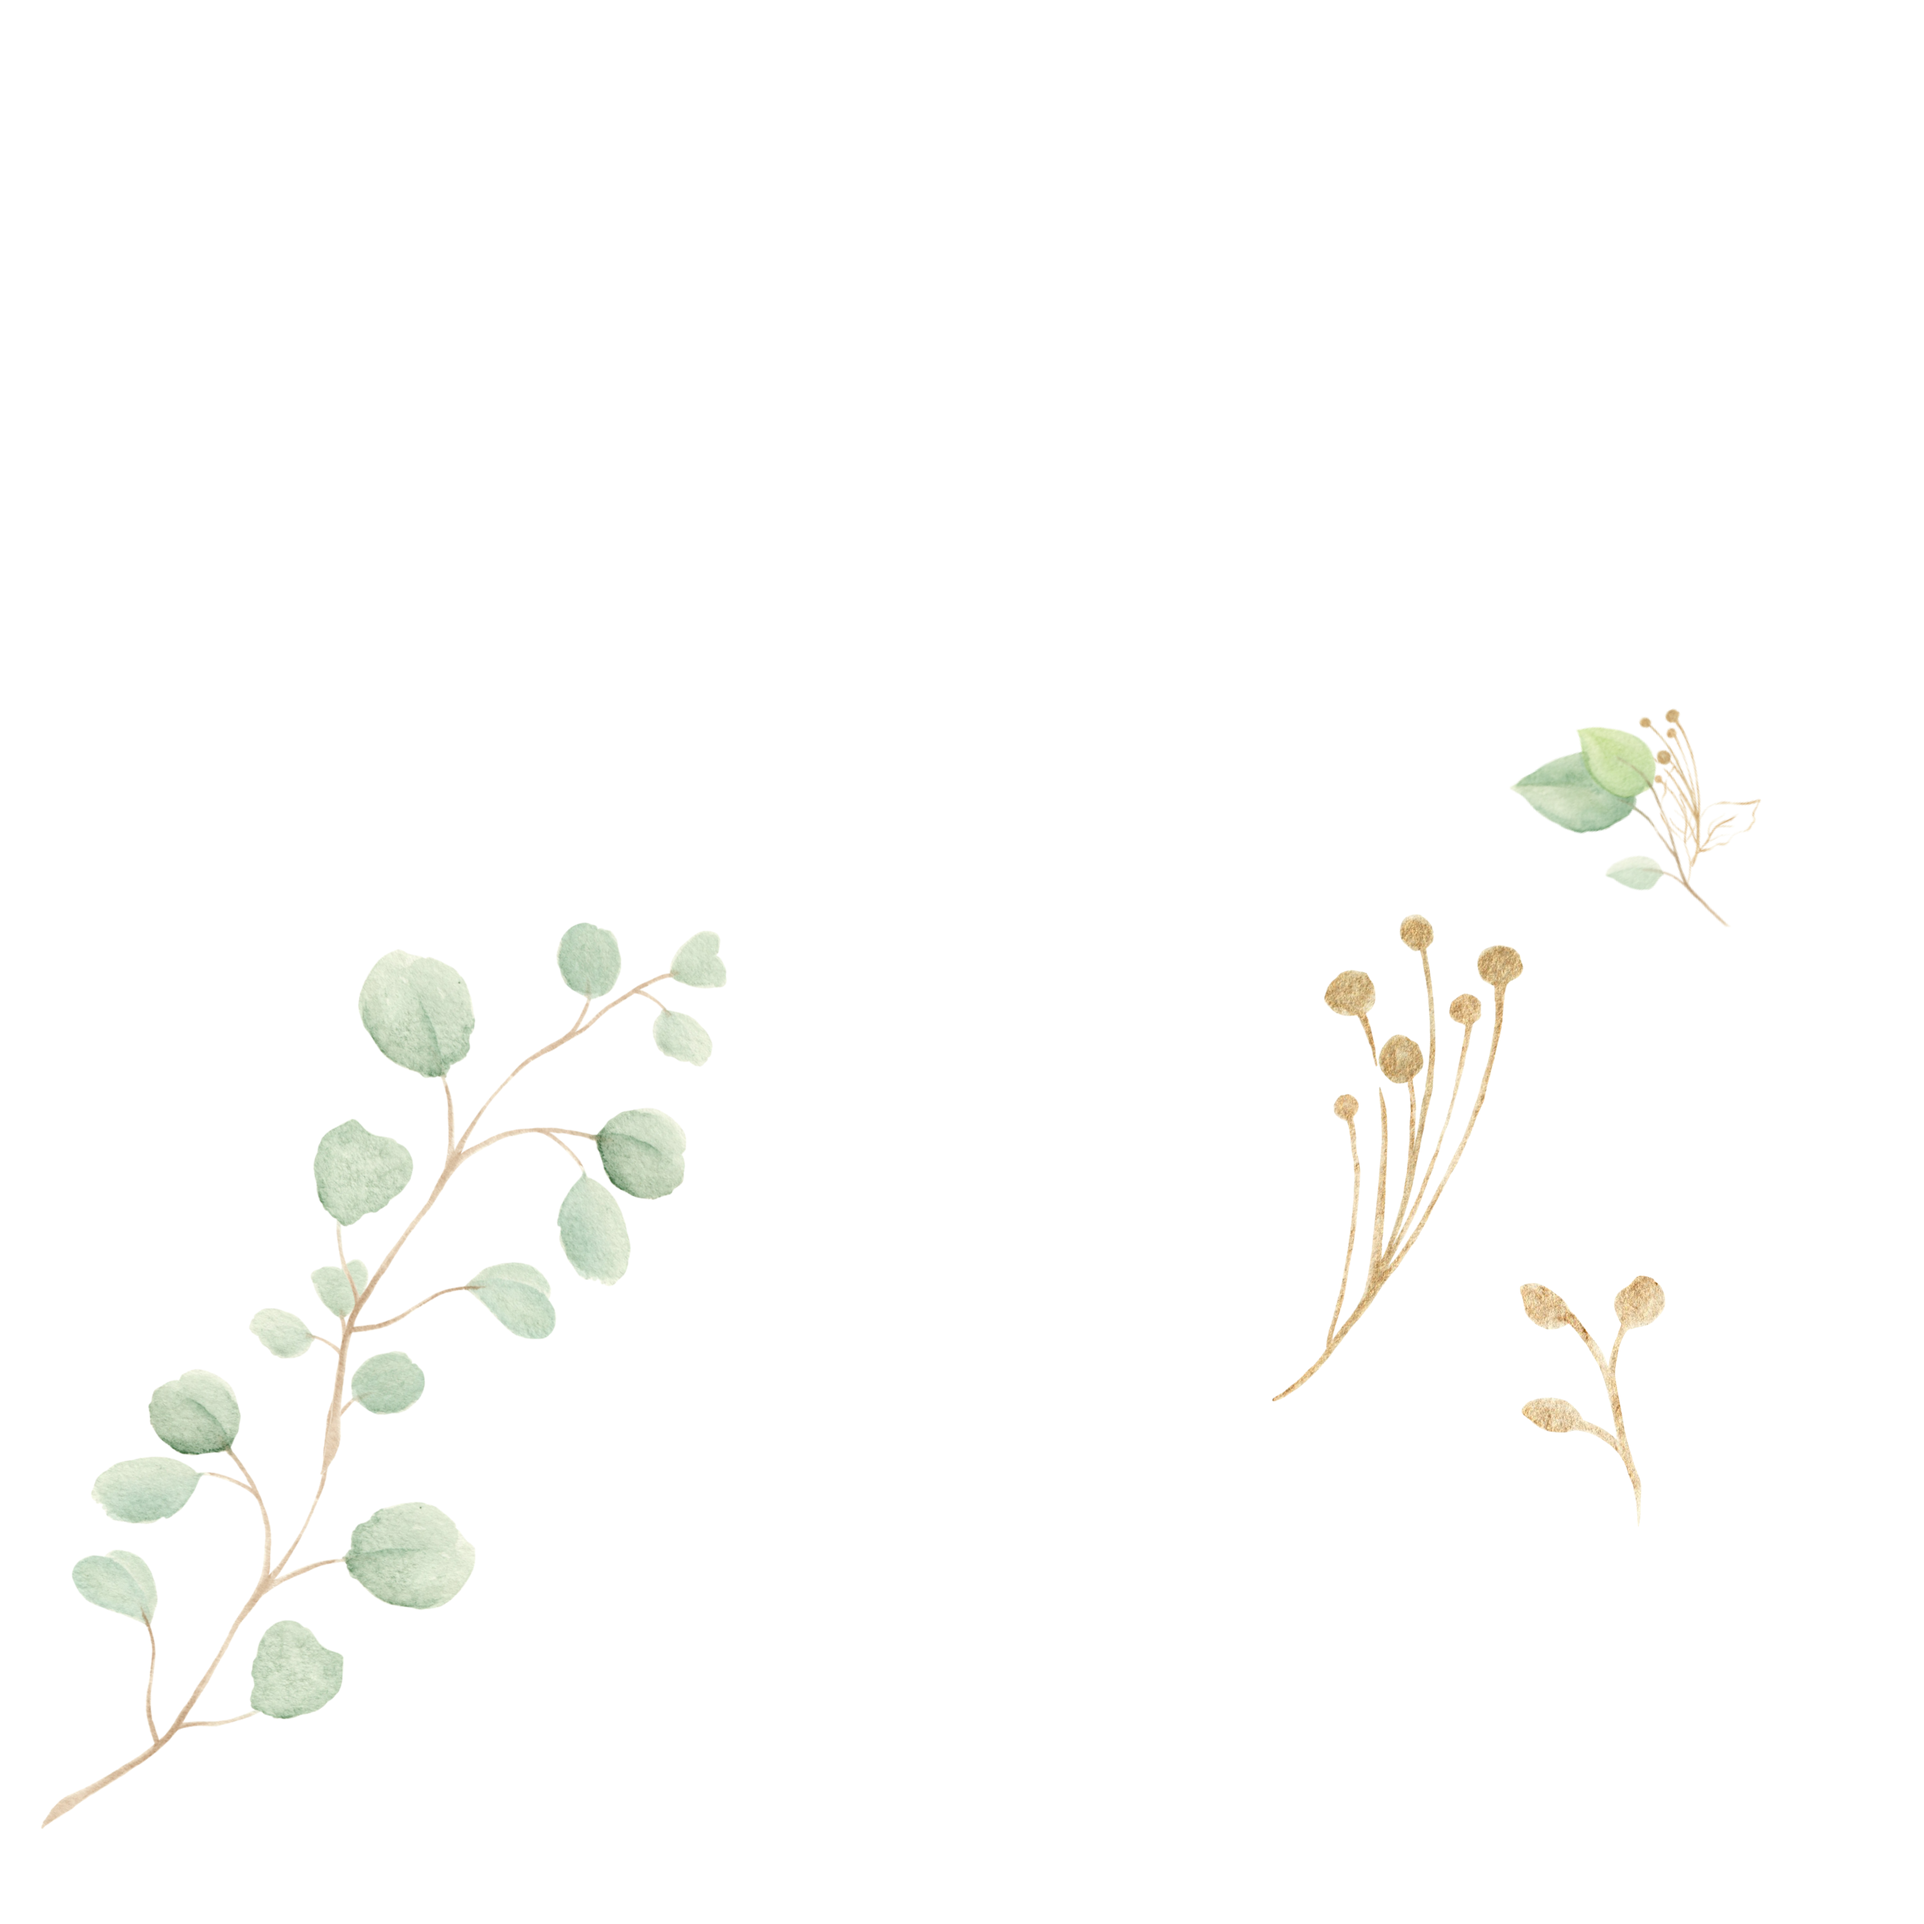
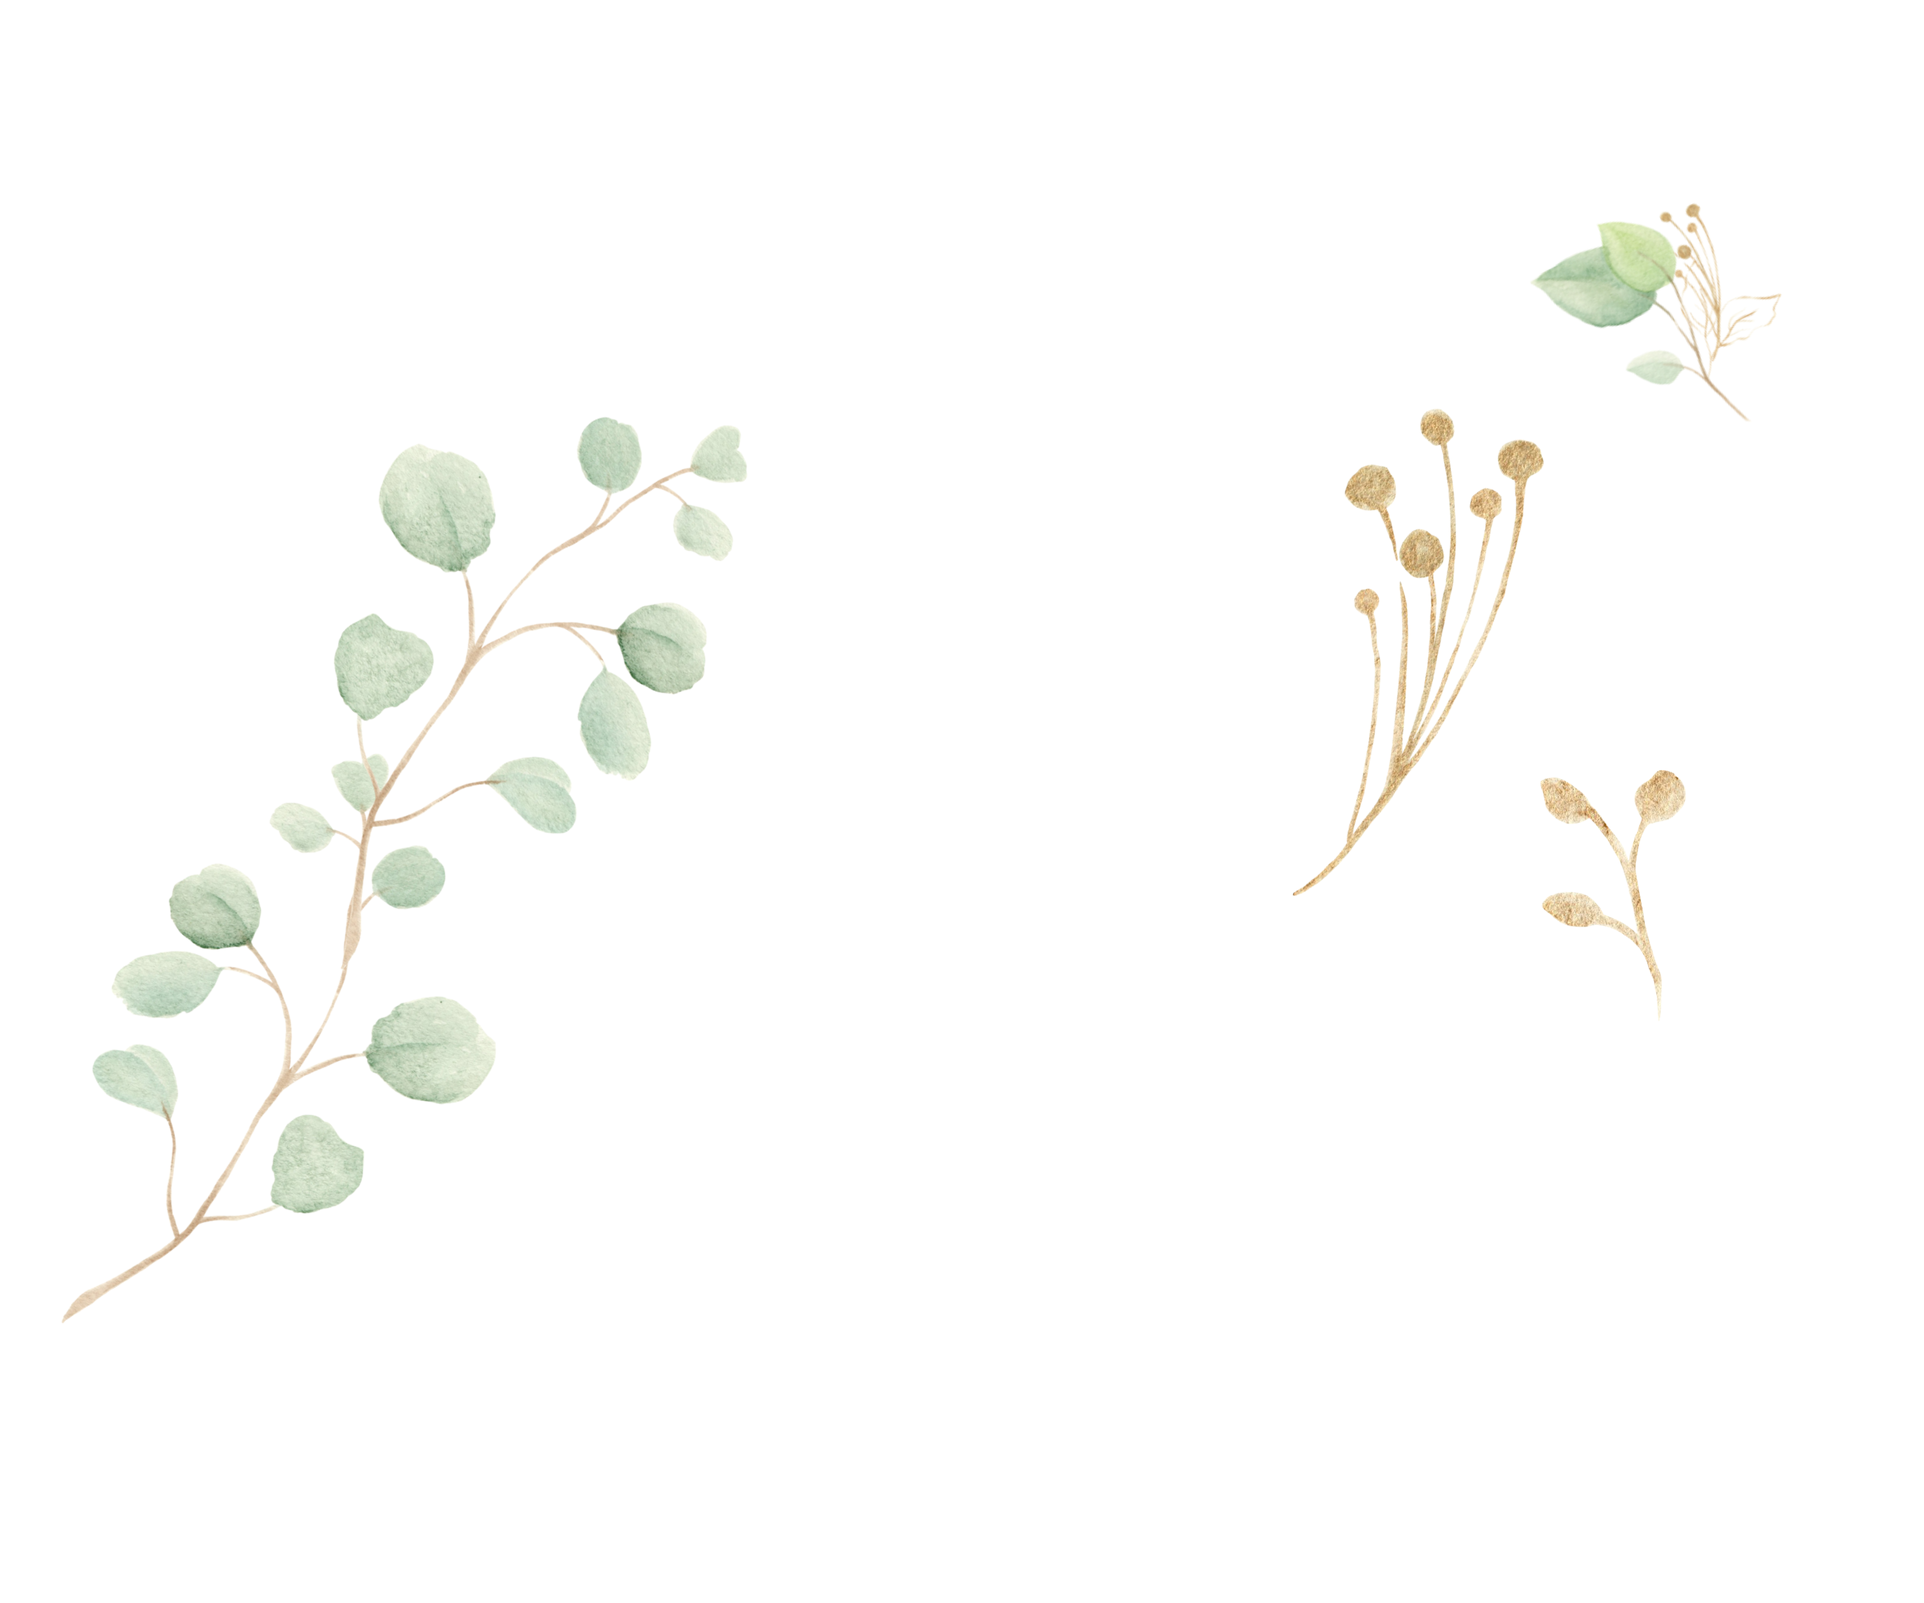
finished the project

diff --git a/src/components/InfoHun.tsx b/src/components/InfoHun.tsx
@@ -5,59 +5,59 @@ import "../styles/zindex.css";
 import EucalyptusBouquet from "../img/eucalyptus_bouquet_03.png";
 import CustomBouquet from "../img/custom_bouquet_01.png";
 
-
 const InfoHun = () => {
 	return (
-		<article className="card">
-			<div className="info_container z1">
-				<img className="bouquet1 z2" alt="bouquet" src={EucalyptusBouquet} />
-				<img className="bouquet2 z2" alt="bouquet" src={CustomBouquet} />
+		<div className="info_container">
+			<div className="info_bg" />
+			<article className="card">
+				<div className="inv_container z1">
+					<img className="bouquet1 z2" alt="bouquet" src={EucalyptusBouquet} />
+					<img className="bouquet2 z2" alt="bouquet" src={CustomBouquet} />
 
-				<h2 className="waterbrush invitation z3">Meghívó</h2>
+					<h2 className="waterbrush invitation z3">Meghívó</h2>
 
-				<div className="spectral_sc dear_all z3">
-					Kedves Családunk és Barátaink!
+					<div className="spectral_sc dear_all z3">
+						Kedves Családunk és Barátaink!
+					</div>
+
+					<p className="spectral_sc announce z3">
+						Örömmel tudatjuk veletek, hogy úgy döntöttünk, szerelmünket
+						házassággal pecsételjük meg. Szeretettel értesítünk, hogy
+					</p>
+
+					<div className="spectral the_date z3">2022. október 1-én</div>
+
+					<p className="spectral_sc eternal z3">
+						örök hűséget fogadunk egymásnak. A szertartást és vacsorát követően
+						megkezdjük a hajnalig tartó közös ünneplést.
+					</p>
+
+					<div className="line"></div>
+
+					<section className="spectral_sc happening z3">
+						<strong>Esküvői szertartás</strong>
+						<div className="happening_time">16:30</div>
+						<div>Páduai Szent Antal templom</div>
+						<div>Baja, Bartók Béla utca 5.</div>
+					</section>
+
+					<section className="spectral_sc happening z3">
+						<strong>Lakodalom</strong>
+						<div className="happening_time">18:00</div>
+						<div>Turisztikai központ</div>
+						<div>Baja, Petőfi sziget 11.</div>
+					</section>
+
+					<div className="waterbrush come z3">Szeretettel várunk!</div>
+
+					<q className="spectral gift z3">
+						Ajándékon ne tört fejed,
+						<br />
+						Egy borítékban elrejtheted.
+					</q>
 				</div>
-
-				<p className="spectral_sc announce z3">
-					Örömmel tudatjuk veletek, hogy úgy döntöttünk,
-					szerelmünket házassággal pecsételjük meg.
-					Szeretettel értesítünk, hogy
-				</p>
-
-				<div className="spectral the_date z3">2022. október 1-én</div>
-
-				<p className="spectral_sc eternal z3">
-					örök hűséget fogadunk egymásnak.
-					A szertartást és vacsorát követően megkezdjük a hajnalig tartó
-					közös ünneplést.
-				</p>
-
-				<div className="line"></div>
-
-				<section className="spectral_sc happening z3">
-					<strong>Esküvői szertartás</strong>
-					<div className="happening_time">16:30</div>
-					<div>Páduai Szent Antal templom</div>
-					<div>Baja, Bartók Béla utca 5.</div>
-				</section>
-
-				<section className="spectral_sc happening z3">
-					<strong>Lakodalom</strong>
-					<div className="happening_time">18:00</div>
-					<div>Turisztikai központ</div>
-					<div>Baja, Petőfi sziget 11.</div>
-				</section>
-
-				<div className="waterbrush come z3">Szeretettel várunk!</div>
-
-				<q className="spectral gift z3">
-					Ajándékon ne tört fejed,
-					<br />
-					Egy borítékban elrejtheted.
-				</q>
-			</div>
-		</article>
+			</article>
+		</div>
 	);
 };
 

diff --git a/src/components/InfoEng.tsx b/src/components/InfoEng.tsx
@@ -8,8 +8,10 @@ import CustomBouquet from "../img/custom_bouquet_01.png";
 
 const InfoEng = () => {
 	return (
-		<article className="card">
-			<div className="info_container z1">
+		<div className="info_container">
+			<div className="info_bg" />
+			<article className="card">
+				<div className="inv_container z1">
 				<img className="bouquet1 z2" alt="bouquet" src={EucalyptusBouquet} />
 				<img className="bouquet2 z2" alt="bouquet" src={CustomBouquet} />
 
@@ -29,7 +31,7 @@ const InfoEng = () => {
 				<p className="spectral_sc eternal z3">
 					to witness our vows to each other.
 					After the ceremony and the dinner,
-          we will start the celebration, until the sun is rises
+          we will start the celebration, until the sun rises
 				</p>
 
 				<div className="line"></div>
@@ -53,10 +55,11 @@ const InfoEng = () => {
 				<q className="spectral gift z3">
 					If a gift is on your mind,
 					<br />
-					A contribution would be kind.
+					A contribution would kind.
 				</q>
 			</div>
 		</article>
+		</div>
 	);
 };
 

diff --git a/src/styles/header.css b/src/styles/header.css
@@ -1,25 +1,32 @@
-.couplepicture {
+.header_container {
   position: relative;
   width: 100vw;
   height: 25em;
   background: no-repeat center center;
   background-image: url('../img/boritokep2.jpg');
   background-size: cover;
+}
+
+.header_bg {
+  width: 100vw;
+  height: 25em;
+  background: no-repeat center center;
+  background-image: url('../img/boritokep2.jpg');
+  background-size: cover;
+  filter: blur(4px);
+}
+
+.couplepicture {
+  position: absolute;
+  top: 0;
+  left: 0;
+  width: 100%;
+  height: 100%;
   display: grid;
   align-items: center;
 }
 
-.couplepicture::before {
-  content: '';
-  position: absolute;
-  width: 100%;
-  height: 100%;
-  backdrop-filter: blur(3px);
-  pointer-events: none;
-}
-
 .maintitle {
-  position: relative;
   width: 100%;
   text-align: center;
   color: white;

diff --git a/src/styles/info.css b/src/styles/info.css
@@ -1,6 +1,27 @@
+.info_container {
+  position: relative;
+  width: 100vw;
+  height: fit-content;
+  /* height: 100em; */
+  padding: 0 0 5em 0;
+}
+
+.info_bg {
+  position: absolute;
+  top: 0em;
+  left: 0;
+  width: 100vw;
+  height: 100%;
+  background-image: url('../img/background.png');
+  background-repeat: no-repeat;
+  background-position: center top;
+  background-size: 120em;
+  filter: blur(4px);
+}
+
 .card {
   position: relative;
-	margin: 5em auto;
+	margin: 5em auto 0 auto;
   padding: 0;
   font-size: 1em;
   text-align: center;
@@ -11,7 +32,7 @@
   background-color: white;
 }
 
-.info_container {
+.inv_container {
   padding: 2em 1em 4em 1em;
   max-width: 30em;
   margin: 0 auto;

diff --git a/src/components/HeaderEng.tsx b/src/components/HeaderEng.tsx
@@ -5,14 +5,17 @@ import "../styles/font.css";
 
 const HeaderEng = () => {
 	return (
-		<>
-			<div className='couplepicture'>
+		<div className="header_container">
+			<div className="header_bg" />
+
+			<div className="couplepicture">
 				<h1 className="roseville maintitle">Adri&nbsp; &amp;Peti</h1>
-        <Link to={'/hu'} className="language">
-					HUNGARIAN
-				</Link>
 			</div>
-		</>
+
+			<Link to={"/hu"} className="language">
+				MAGYAR
+			</Link>
+		</div>
 	);
 };
 

diff --git a/src/components/HeaderHun.tsx b/src/components/HeaderHun.tsx
@@ -5,14 +5,17 @@ import "../styles/font.css";
 
 const HeaderHun = () => {
 	return (
-		<>
-			<div className='couplepicture'>
+		<div className="header_container">
+			<div className="header_bg" />
+
+			<div className="couplepicture">
 				<h1 className="roseville maintitle">Adri&nbsp; &amp;Peti</h1>
-				<Link to={'/en'} className="language">
-					ENGLISH
-				</Link>
 			</div>
-		</>
+
+			<Link to={"/en"} className="language">
+				ENGLISH
+			</Link>
+		</div>
 	);
 };
 

diff --git a/src/App.tsx b/src/App.tsx
@@ -11,8 +11,8 @@ function App() {
 			<BrowserRouter>
 				<Routes>
 					<Route path="/" element={<Home />} />
-          <Route path="/hu" element={<Hungarian />} />
-          <Route path="/en" element={<English />} />
+					<Route path="/hu" element={<Hungarian />} />
+					<Route path="/en" element={<English />} />
 				</Routes>
 			</BrowserRouter>
 		</div>

diff --git a/src/App.css b/src/App.css
@@ -4,10 +4,5 @@ body {
 }
 
 body {
-  background-image: url('./img/background.png');
-  background-repeat: no-repeat;
-  background-position: center top;
-  background-size: 120em;
-  backdrop-filter: blur(10px);
   overflow: hidden;
 }
